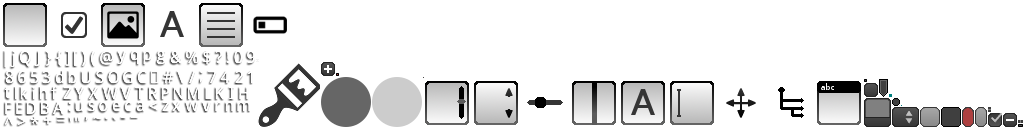
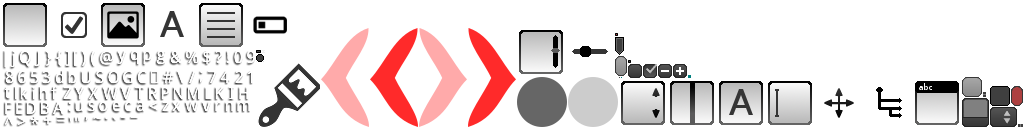
Moved ImageSlider code into module.
Code in it's own Java Library module, then referenced by core.

Changed region(s): [[0.3125, 0.2188, 1.0, 1.0], [0.25, 0.4062, 0.2812, 0.4688]]

diff --git a/imagesliderlib/src/main/java/uk/co/ctdev/imageslider/ImageSlider/ImageSliderUI.java b/imagesliderlib/src/main/java/uk/co/ctdev/imageslider/ImageSlider/ImageSliderUI.java
@@ -4,11 +4,9 @@ import com.badlogic.gdx.Gdx;
 import com.badlogic.gdx.InputProcessor;
 import com.badlogic.gdx.scenes.scene2d.InputEvent;
 import com.badlogic.gdx.scenes.scene2d.InputListener;
-import com.badlogic.gdx.scenes.scene2d.Stage;
 import com.badlogic.gdx.scenes.scene2d.actions.Actions;
 import com.badlogic.gdx.scenes.scene2d.ui.Button;
 import com.badlogic.gdx.scenes.scene2d.ui.Cell;
-import com.badlogic.gdx.scenes.scene2d.ui.Label;
 import com.badlogic.gdx.scenes.scene2d.ui.Skin;
 import com.badlogic.gdx.scenes.scene2d.ui.Table;
 
@@ -27,6 +25,8 @@ public class ImageSliderUI extends SliderUI implements InputProcessor{
 
     private Table dotLayout;
     private Skin skin;
+    private Button leftButton;
+    private Button rightButton;
 
     public ImageSliderUI(Skin skin, ImageSlider slider){
         this(skin);
@@ -36,11 +36,11 @@ public class ImageSliderUI extends SliderUI implements InputProcessor{
     public ImageSliderUI(Skin skin){
         this.skin = skin;
         Table layout = new Table();
-        Label label = new Label("STAGE", skin);
-        layout.add(label).colspan(2);
         //Create buttons
-        Button leftButton = new Button(this.skin);
-        Button rightButton = new Button(this.skin);
+        leftButton = new Button(this.skin, "image-slider-left");
+        rightButton = new Button(this.skin, "image-slider-right");
+        leftButton.addAction(Actions.fadeOut(5f));
+        rightButton.addAction(Actions.fadeOut(5f));
 
         rightButton.addListener(new InputListener(){
 
@@ -88,8 +88,8 @@ public class ImageSliderUI extends SliderUI implements InputProcessor{
             }
         });
 
-        leftButton.setWidth(200f);
-        rightButton.setWidth(100f);
+        /*leftButton.setWidth(200f);
+        rightButton.setWidth(100f);*/
 
         layout.row().expand();
         layout.add(leftButton).left().width(50f);
@@ -97,7 +97,7 @@ public class ImageSliderUI extends SliderUI implements InputProcessor{
         layout.row();
 
         layout.setFillParent(true);
-        layout.setDebug(true);
+        //layout.setDebug(true);
 
         this.addActor(layout);
     }
@@ -139,7 +139,7 @@ public class ImageSliderUI extends SliderUI implements InputProcessor{
             if(dots.size() == 1){
                 lButton.setChecked(true);
             }
-            dotLayout.add(lButton).width(30f).height(30f);
+            dotLayout.add(lButton).width(30f).height(30f).pad(10f);
 
             this.clear();
             this.addActor(layout);
@@ -148,10 +148,17 @@ public class ImageSliderUI extends SliderUI implements InputProcessor{
 
     @Override
     public void setCurrentView(int currentView) {
+        leftButton.addAction(Actions.alpha(1f));
+        rightButton.addAction(Actions.alpha(1f));
+        leftButton.addAction(Actions.fadeOut(5f));
+        rightButton.addAction(Actions.fadeOut(5f));
+
         Table layout = (Table)this.getActors().get(0);
         Table dotTable = layout.findActor("dots");
-        dotTable.addAction(Actions.alpha(1));
+
+        dotTable.addAction(Actions.alpha(1f));
         dotTable.addAction(Actions.fadeOut(5f));
+
         ((Button)dotTable.getCells().get(currentView).getActor()).setChecked(true);
 
         //Reset previous

diff --git a/core/src/uk/co/ctdev/imageslider/Game.java b/core/src/uk/co/ctdev/imageslider/Game.java
@@ -13,9 +13,9 @@ import com.badlogic.gdx.scenes.scene2d.ui.Table;
 import uk.co.ctdev.imageslider.ImageSlider.ImageSlider;
 import uk.co.ctdev.imageslider.ImageSlider.ImageSliderUI;
 import uk.co.ctdev.imageslider.ImageSlider.SimpleImageSlider;
-import uk.co.ctdev.imageslider.ImageSlider.SliderUI;
 import uk.co.ctdev.imageslider.ImageSlider.SliderUIException;
 import uk.co.ctdev.imageslider.ImageSlider.View;
+
 
 public class Game extends ApplicationAdapter {
 	SpriteBatch batch;
@@ -62,13 +62,17 @@ public class Game extends ApplicationAdapter {
 		v4.row();
 		v4.add(new Label("View Four", skin));
 
+		Table v5 = new Table();
+		v5.add(new Image(img2));
+		v5.row();
+		v5.add(new Label("Five", skin));
+
 
 		imageSlider.addView(v1);
 		imageSlider.addView(v2);
 		imageSlider.addView(v3);
 		imageSlider.addView(v4);
-
-
+		imageSlider.addView(v5);
 
 
 

diff --git a/imagesliderlib/src/main/java/uk/co/ctdev/imageslider/ImageSlider/SimpleImageSlider.java b/imagesliderlib/src/main/java/uk/co/ctdev/imageslider/ImageSlider/SimpleImageSlider.java
@@ -74,7 +74,7 @@ public class SimpleImageSlider extends ImageSlider {
         Gdx.app.log(TAG, "Middle of this view:" + ((width * currentViewId) + (width / 2)));
         Gdx.app.log(TAG, "Scroll X:" + scrollX);
 
-        if(scrollX % width != 0) {
+        if(scrollX % width != 0 || scrollX == 0 || scrollX == contentPane.getMaxX()) {
             goToView(Math.round(scrollX / width));
             Gdx.app.log(TAG, "View Id:" + currentViewId);
             Gdx.app.log(TAG, "Handled");

diff --git a/imagesliderlib/src/main/java/uk/co/ctdev/imageslider/ImageSlider/ImageSlider.java b/imagesliderlib/src/main/java/uk/co/ctdev/imageslider/ImageSlider/ImageSlider.java
@@ -32,7 +32,7 @@ public abstract class ImageSlider extends Stage implements GestureListener {
         this.height = height;
     }
 
-    public ImageSlider(Skin skin, int width, int height, Class<? extends SliderUI> ui) throws SliderUIException{
+    public ImageSlider(Skin skin, int width, int height, Class<? extends SliderUI> ui) throws SliderUIException {
         this.width = width;
         this.height = height;
         currentViewId = 0;

diff --git a/imagesliderlib/src/main/java/uk/co/ctdev/imageslider/ImageSlider/View.java b/imagesliderlib/src/main/java/uk/co/ctdev/imageslider/ImageSlider/View.java
@@ -1,7 +1,6 @@
 package uk.co.ctdev.imageslider.ImageSlider;
 
 import com.badlogic.gdx.scenes.scene2d.Actor;
-import com.badlogic.gdx.scenes.scene2d.ui.Button;
 import com.badlogic.gdx.scenes.scene2d.ui.Table;
 
 public class View extends Table {
